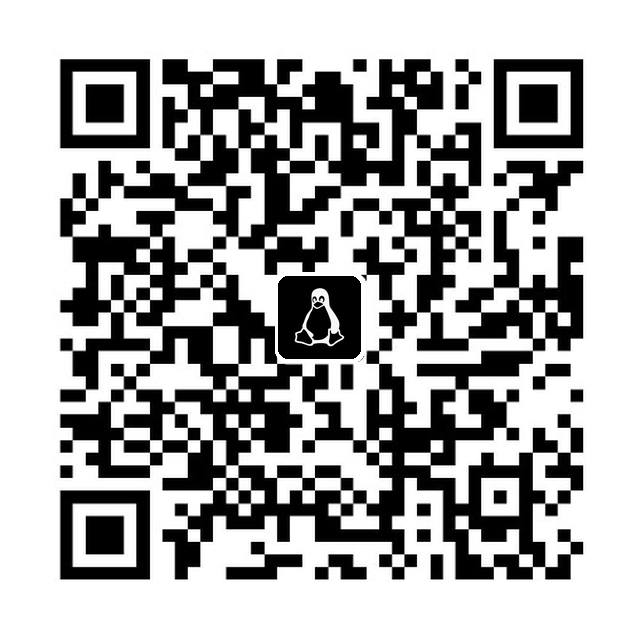
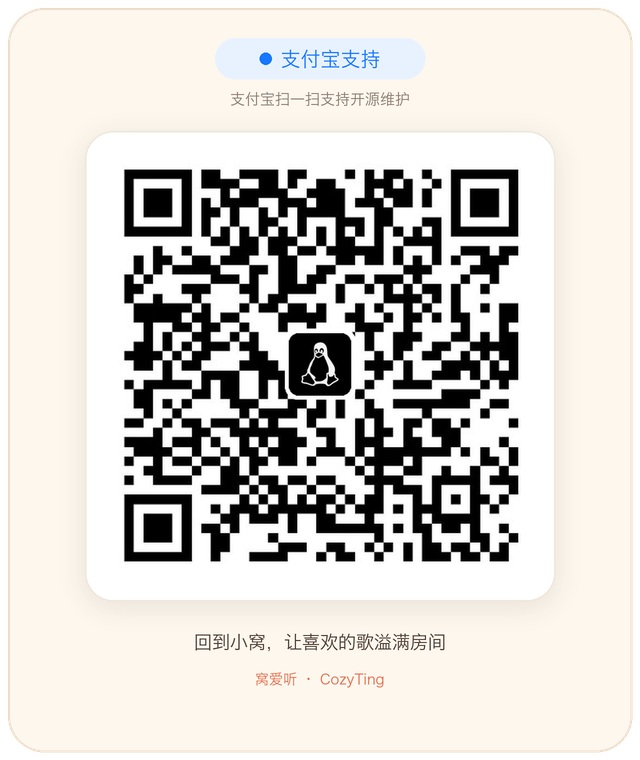
style: redesign WeChat and Alipay sponsor QR cards in warm CozyTing theme

diff --git a/docs/index.html b/docs/index.html
@@ -955,21 +955,20 @@
       }
 
       .sponsor-qr-card {
-        background: var(--bg-soft);
-        border: 1px solid var(--border);
-        border-radius: var(--radius-sm);
-        padding: 0.75rem;
+        background: transparent;
+        border: 0;
+        padding: 0;
         text-align: center;
       }
 
       .sponsor-qr-card img {
         width: 100%;
-        max-width: 180px;
-        aspect-ratio: 1 / 1;
-        object-fit: cover;
-        border-radius: 10px;
+        max-width: 210px;
+        aspect-ratio: 640 / 760;
+        object-fit: contain;
+        border-radius: 16px;
         margin-inline: auto;
-        background: #ffffff;
+        background: transparent;
       }
 
       .sponsor-qr-card figcaption {
@@ -1379,12 +1378,10 @@
           </div>
           <div class="sponsor-qrs">
             <figure class="sponsor-qr-card">
-              <img src="assets/sponsor/wechat-tip.jpg" alt="微信赞赏码（窝爱听 CozyTing）" width="640" height="640" loading="lazy">
-              <figcaption>微信赞赏码</figcaption>
+              <img src="assets/sponsor/wechat-tip.png" alt="微信赞赏码（窝爱听 CozyTing）" width="640" height="760" loading="lazy">
             </figure>
             <figure class="sponsor-qr-card">
-              <img src="assets/sponsor/alipay-tip.png" alt="支付宝收款码（窝爱听 CozyTing）" width="640" height="640" loading="lazy">
-              <figcaption>支付宝扫一扫</figcaption>
+              <img src="assets/sponsor/alipay-tip.png" alt="支付宝收款码（窝爱听 CozyTing）" width="640" height="760" loading="lazy">
             </figure>
           </div>
         </div>

diff --git a/docs/ja/index.html b/docs/ja/index.html
@@ -955,21 +955,20 @@
       }
 
       .sponsor-qr-card {
-        background: var(--bg-soft);
-        border: 1px solid var(--border);
-        border-radius: var(--radius-sm);
-        padding: 0.75rem;
+        background: transparent;
+        border: 0;
+        padding: 0;
         text-align: center;
       }
 
       .sponsor-qr-card img {
         width: 100%;
-        max-width: 180px;
-        aspect-ratio: 1 / 1;
-        object-fit: cover;
-        border-radius: 10px;
+        max-width: 210px;
+        aspect-ratio: 640 / 760;
+        object-fit: contain;
+        border-radius: 16px;
         margin-inline: auto;
-        background: #ffffff;
+        background: transparent;
       }
 
       .sponsor-qr-card figcaption {
@@ -1379,12 +1378,10 @@
           </div>
           <div class="sponsor-qrs">
             <figure class="sponsor-qr-card">
-              <img src="../assets/sponsor/wechat-tip.jpg" alt="CozyTing WeChat Pay 応援用 QR コード" width="640" height="640" loading="lazy">
-              <figcaption>WeChat Pay</figcaption>
+              <img src="../assets/sponsor/wechat-tip.png" alt="CozyTing WeChat Pay 応援用 QR コード" width="640" height="760" loading="lazy">
             </figure>
             <figure class="sponsor-qr-card">
-              <img src="../assets/sponsor/alipay-tip.png" alt="CozyTing Alipay 応援用 QR コード" width="640" height="640" loading="lazy">
-              <figcaption>Alipay</figcaption>
+              <img src="../assets/sponsor/alipay-tip.png" alt="CozyTing Alipay 応援用 QR コード" width="640" height="760" loading="lazy">
             </figure>
           </div>
         </div>

diff --git a/docs/en/index.html b/docs/en/index.html
@@ -955,21 +955,20 @@
       }
 
       .sponsor-qr-card {
-        background: var(--bg-soft);
-        border: 1px solid var(--border);
-        border-radius: var(--radius-sm);
-        padding: 0.75rem;
+        background: transparent;
+        border: 0;
+        padding: 0;
         text-align: center;
       }
 
       .sponsor-qr-card img {
         width: 100%;
-        max-width: 180px;
-        aspect-ratio: 1 / 1;
-        object-fit: cover;
-        border-radius: 10px;
+        max-width: 210px;
+        aspect-ratio: 640 / 760;
+        object-fit: contain;
+        border-radius: 16px;
         margin-inline: auto;
-        background: #ffffff;
+        background: transparent;
       }
 
       .sponsor-qr-card figcaption {
@@ -1379,12 +1378,10 @@
           </div>
           <div class="sponsor-qrs">
             <figure class="sponsor-qr-card">
-              <img src="../assets/sponsor/wechat-tip.jpg" alt="WeChat Pay Tip QR Code for CozyTing" width="640" height="640" loading="lazy">
-              <figcaption>WeChat Pay Tip</figcaption>
+              <img src="../assets/sponsor/wechat-tip.png" alt="WeChat Pay Tip QR Code for CozyTing" width="640" height="760" loading="lazy">
             </figure>
             <figure class="sponsor-qr-card">
-              <img src="../assets/sponsor/alipay-tip.png" alt="Alipay QR Code for CozyTing" width="640" height="640" loading="lazy">
-              <figcaption>Alipay</figcaption>
+              <img src="../assets/sponsor/alipay-tip.png" alt="Alipay QR Code for CozyTing" width="640" height="760" loading="lazy">
             </figure>
           </div>
         </div>

diff --git a/android/app/src/main/java/com/cozyting/app/ui/SponsorDialogController.kt b/android/app/src/main/java/com/cozyting/app/ui/SponsorDialogController.kt
@@ -128,8 +128,8 @@ object SponsorDialogController {
                 drawableRes = R.drawable.sponsor_wechat_tip,
                 label = activity.getString(R.string.sponsor_qr_wechat),
                 saveButtonLabel = activity.getString(R.string.sponsor_btn_save_qr),
-                saveFileName = "CozyTing_WeChat_Tip.jpg",
-                mimeType = "image/jpeg",
+                saveFileName = "CozyTing_WeChat_Tip.png",
+                mimeType = "image/png",
                 savedToast = activity.getString(R.string.sponsor_saved_wechat),
             ).apply {
                 layoutParams = LinearLayout.LayoutParams(0, ViewGroup.LayoutParams.WRAP_CONTENT, 1f).apply {
@@ -216,14 +216,17 @@ object SponsorDialogController {
             setPadding(dp(8), dp(8), dp(8), dp(8))
         }
 
-        val qrSize = dp(124)
+        val qrW = dp(128)
+        val qrH = dp(152)
         card.addView(
-            UiComponents.roundedImageView(activity, UiComponents.dpf(activity, 10f)).apply {
+            ImageView(activity).apply {
                 setImageResource(drawableRes)
                 scaleType = ImageView.ScaleType.FIT_CENTER
-                setBackgroundColor(Color.WHITE)
+                setBackgroundColor(Color.TRANSPARENT)
                 contentDescription = label
-                layoutParams = LinearLayout.LayoutParams(qrSize, qrSize)
+                layoutParams = LinearLayout.LayoutParams(qrW, qrH).apply {
+                    bottomMargin = dp(6)
+                }
             },
         )
         card.addView(

diff --git a/README.md b/README.md
@@ -343,13 +343,11 @@ cd android && ./gradlew --no-daemon test lintStandardDebug
 <div align="center">
   <table>
     <tr>
-      <td align="center" width="240">
-        <img src="docs/assets/sponsor/wechat-tip.jpg" alt="微信赞赏码（窝爱听 CozyTing）" width="200" /><br />
-        <strong>微信赞赏码</strong>
+      <td align="center" width="260">
+        <img src="docs/assets/sponsor/wechat-tip.png" alt="微信赞赏码（窝爱听 CozyTing）" width="220" />
       </td>
-      <td align="center" width="240">
-        <img src="docs/assets/sponsor/alipay-tip.png" alt="支付宝收款码（窝爱听 CozyTing）" width="200" /><br />
-        <strong>支付宝扫一扫</strong>
+      <td align="center" width="260">
+        <img src="docs/assets/sponsor/alipay-tip.png" alt="支付宝收款码（窝爱听 CozyTing）" width="220" />
       </td>
     </tr>
   </table>
